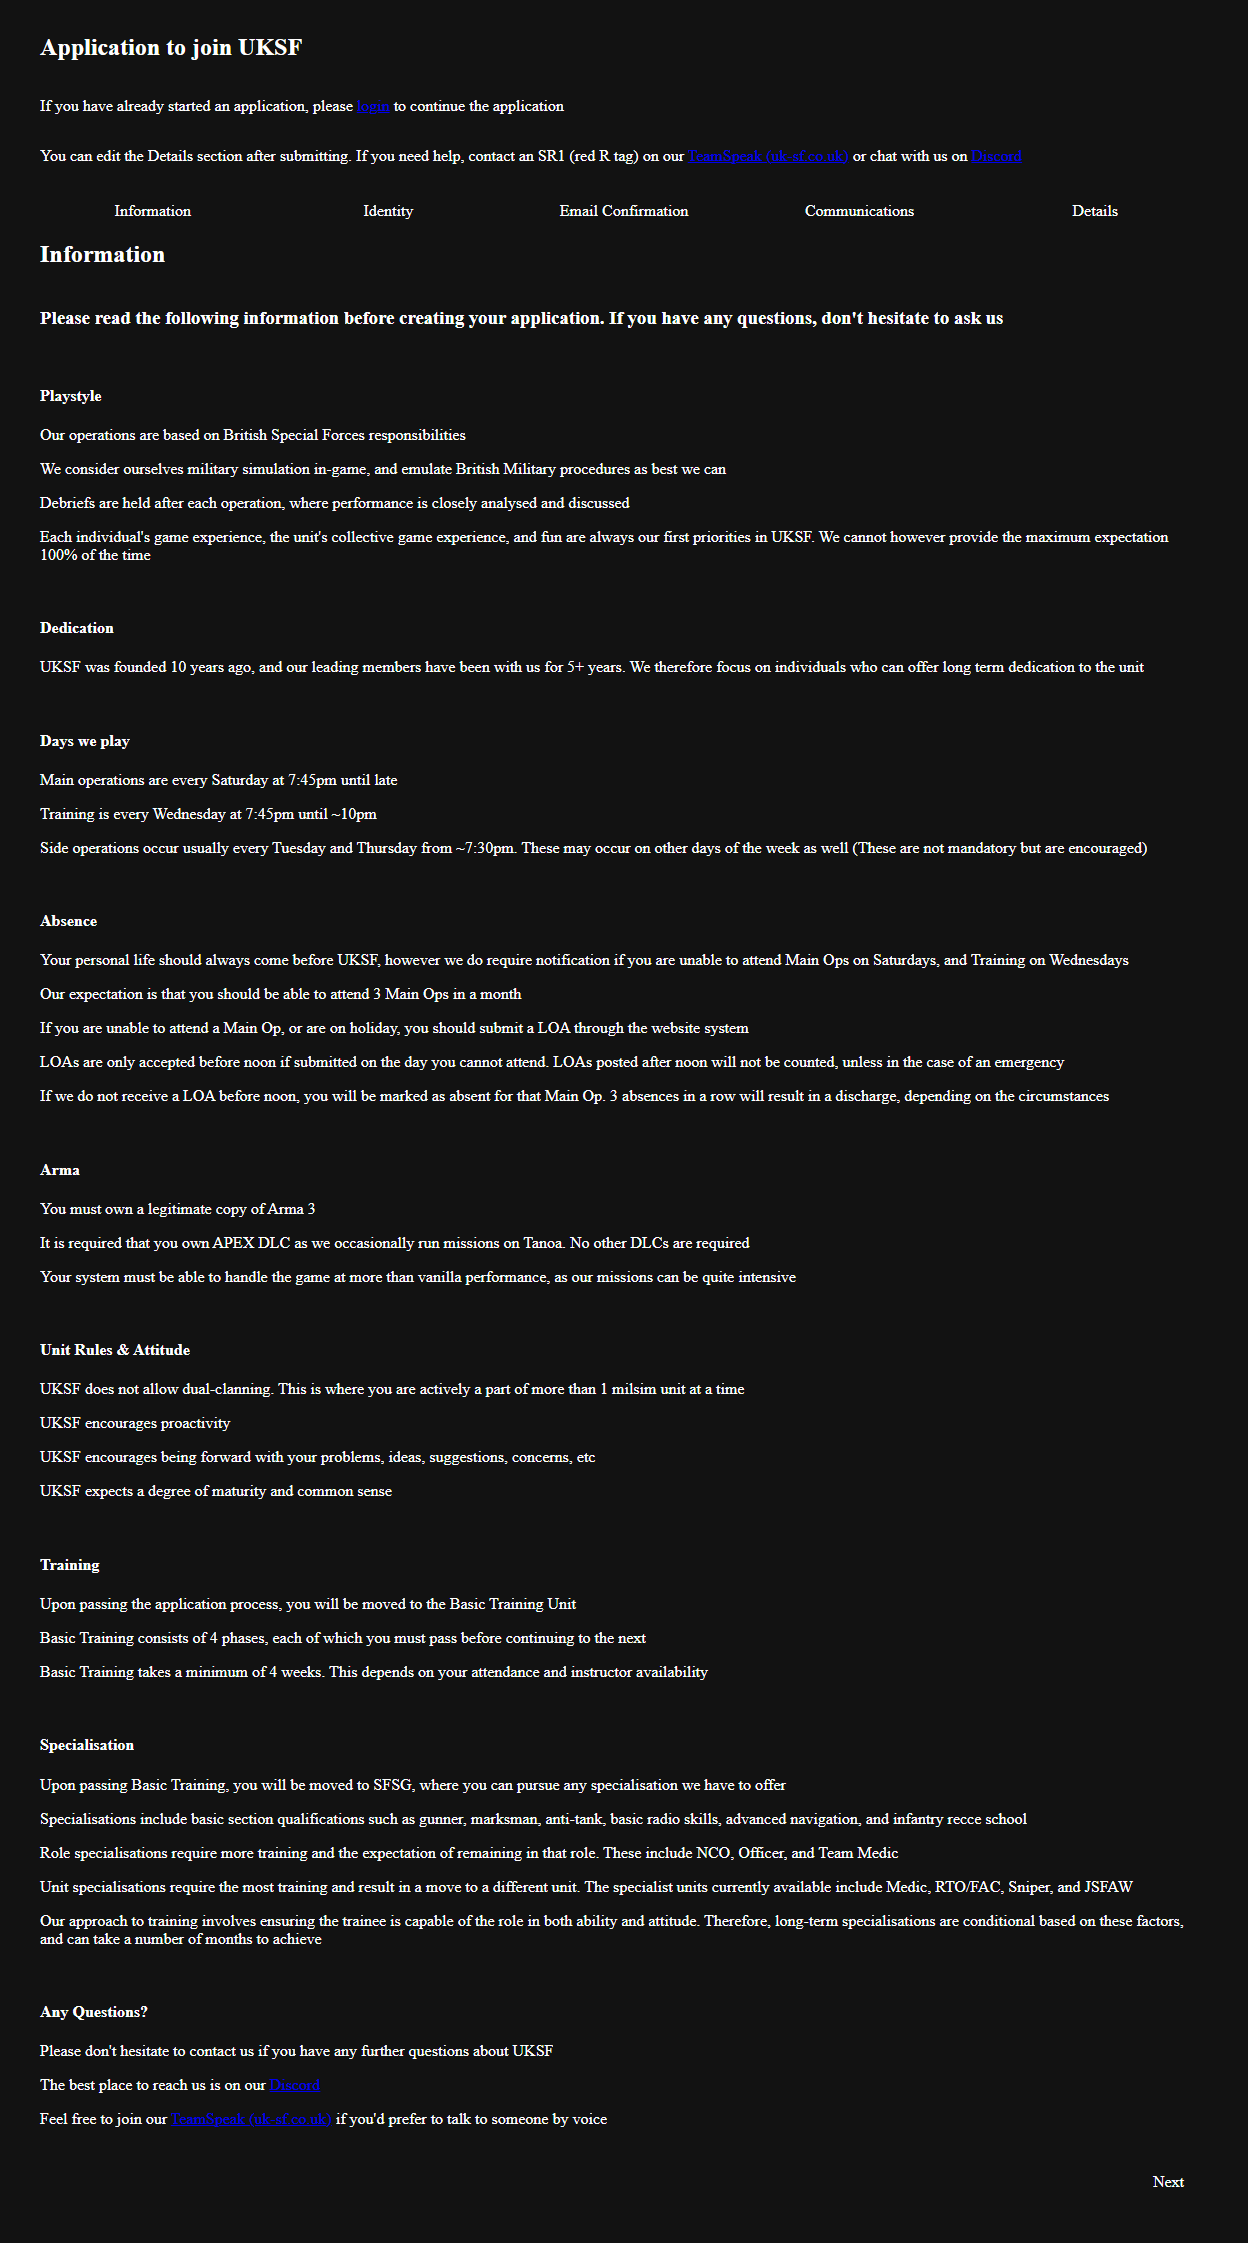
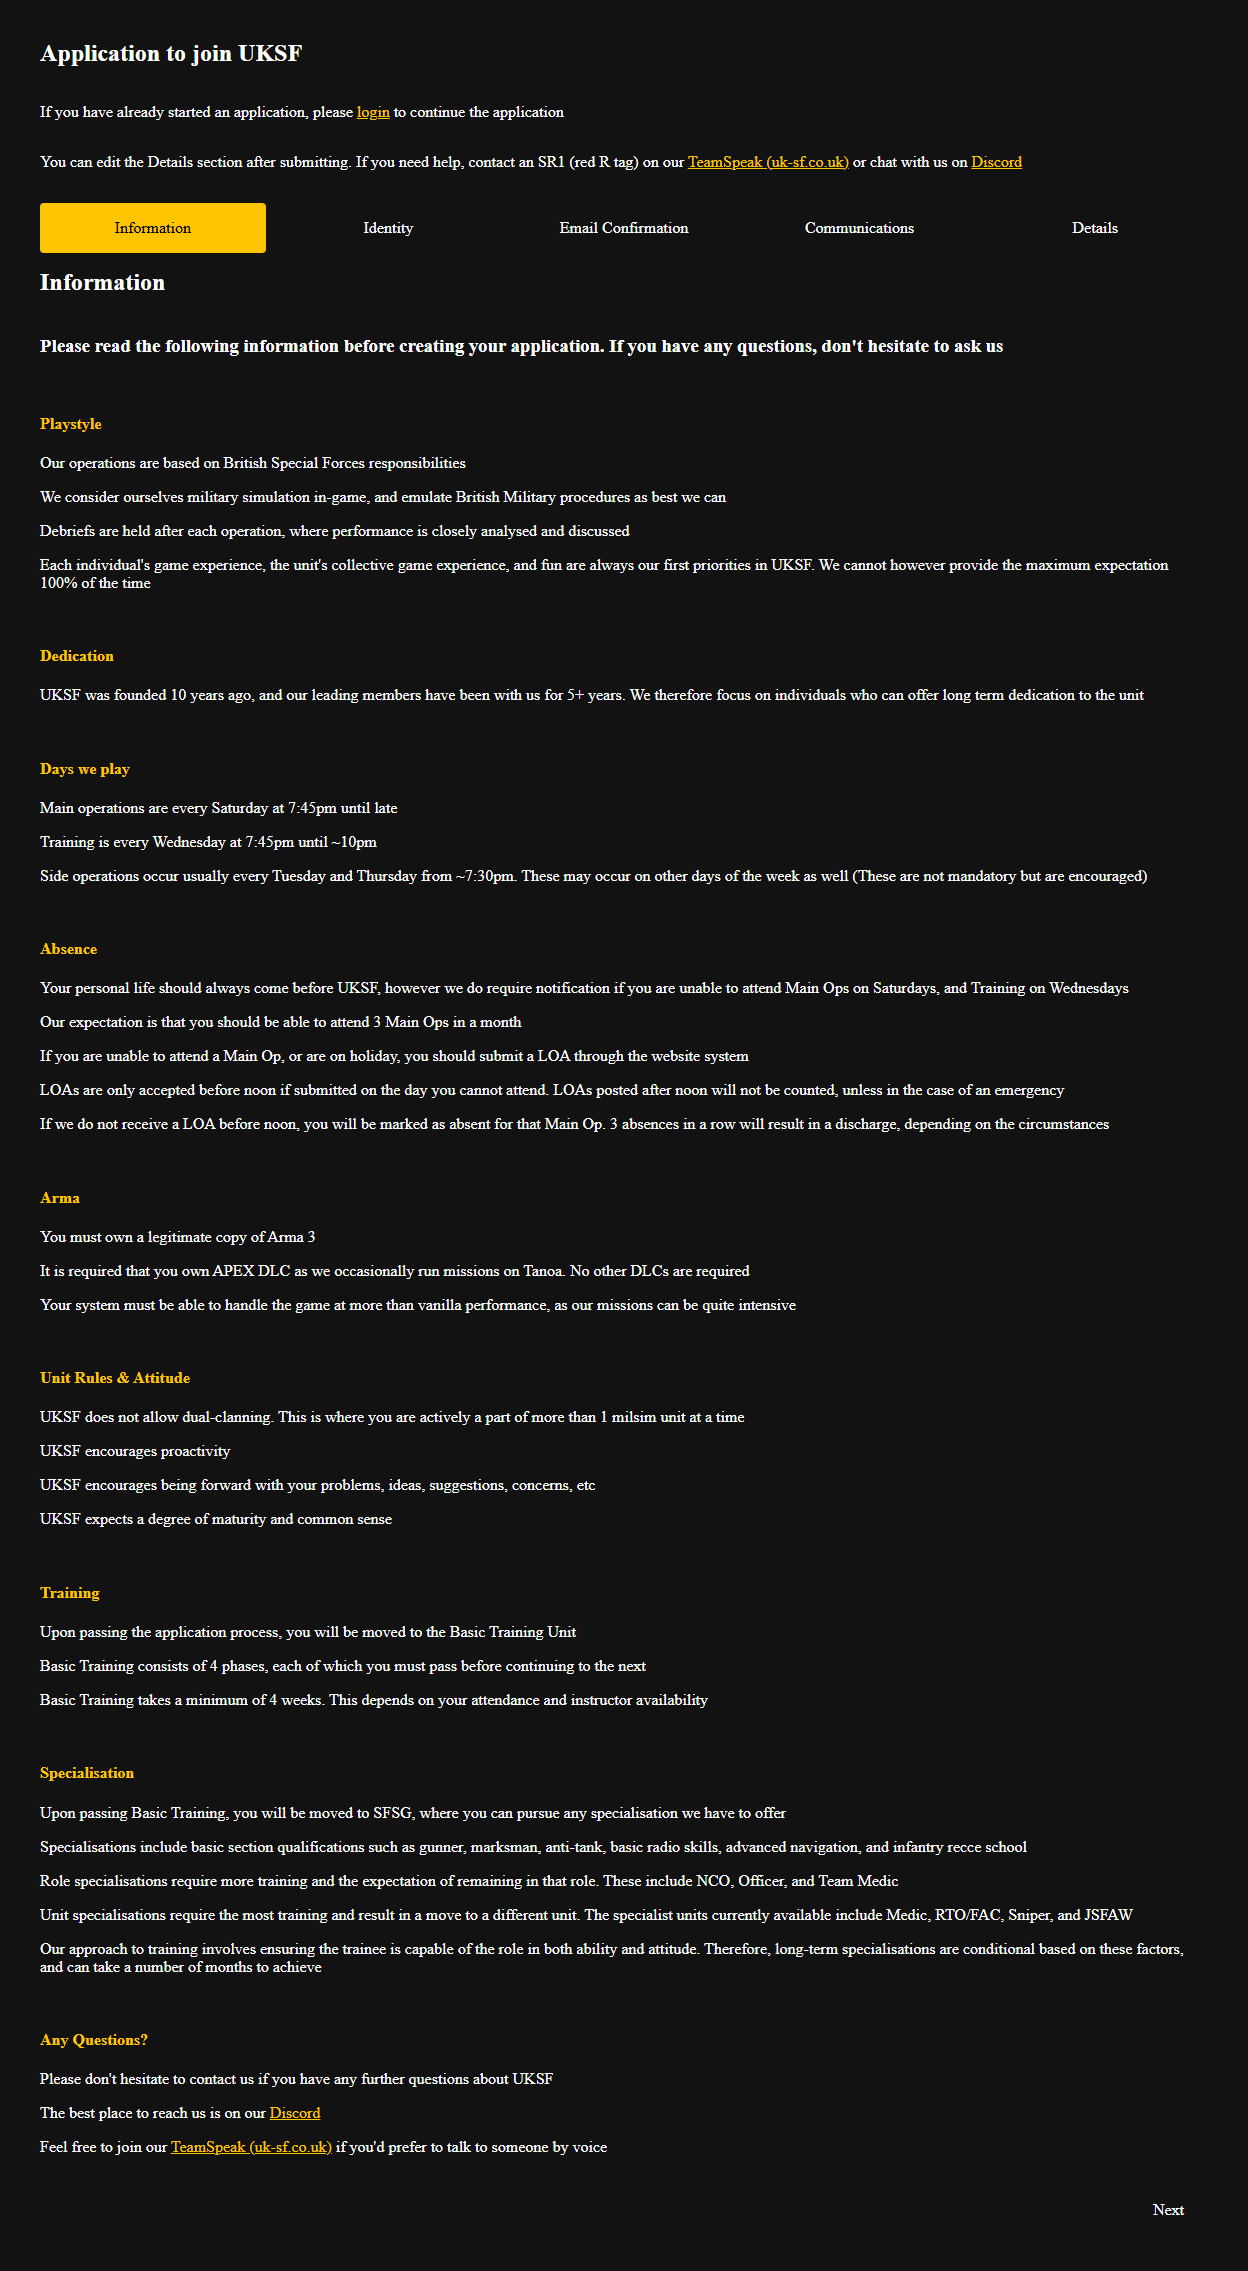
refactor(application): switch application-page to gap-based layout + full-content shell

Changed region(s): [[0.0312, 0.0, 0.9375, 0.9675], [0.625, 0.2185, 0.9375, 0.2497], [0.875, 0.0936, 0.9062, 0.1248]]

diff --git a/src/app/features/application/components/application-page/application-page.component.scss b/src/app/features/application/components/application-page/application-page.component.scss
@@ -1,13 +1,9 @@
 @use 'styles/theme-helpers' as th;
 
-app-default-content-areas {
-    margin-top: 10px;
-}
-
 .flex-container {
     display: flex;
     flex-direction: column;
-    margin-left: 0;
+    gap: 16px;
 
     &.row {
         flex-direction: row;
@@ -17,24 +13,30 @@ app-default-content-areas {
 .progress-container {
     display: flex;
     flex-direction: row;
+    gap: 10px;
     height: 50px;
-    margin: 5px 0;
     text-align: center;
     word-break: break-word;
 
     .box {
         flex: 1;
-        margin-right: 10px;
         display: flex;
         align-items: center;
         justify-content: center;
         border-radius: 4px;
         cursor: default;
         padding: 5px;
+        background-color: var(--uksf-card);
+        color: th.fg-base();
     }
 
-    .box:last-child {
-        margin-right: 0;
+    .enabled {
+        background-color: th.primary();
+        color: th.primary-contrast();
+    }
+
+    .complete {
+        background-color: var(--uksf-gray-550);
     }
 }
 
@@ -63,6 +65,14 @@ app-default-content-areas {
     text-align: right;
 }
 
+a {
+    color: th.primary();
+}
+
+h4 {
+    color: th.primary();
+}
+
 @media screen and (max-width: 800px) {
     .mat-mdc-form-field.large-input,
     .normal,
@@ -75,28 +85,4 @@ app-default-content-areas {
     .progress-container {
         font-size: 12px;
     }
-}
-
-a {
-  color: th.primary();
-}
-
-.progress-container {
-    .box {
-      background-color: var(--uksf-card);
-      color: th.fg-base();
-    }
-
-    .enabled {
-      background-color: th.primary();
-      color: th.primary-contrast();
-    }
-
-    .complete {
-      background-color: var(--uksf-gray-550);
-    }
-}
-
-h4 {
-  color: th.primary();
 }

diff --git a/src/app/features/application/components/application-page/application-page.component.html b/src/app/features/application/components/application-page/application-page.component.html
@@ -1,5 +1,5 @@
 <app-default-content-areas>
-    <app-main-content-area style="grid-column: span 3">
+    <app-full-content-area>
         <div class="flex-container">
             @if (step !== 6) {
             <mat-card>
@@ -46,5 +46,5 @@
             </div>
             }
         </div>
-    </app-main-content-area>
+    </app-full-content-area>
 </app-default-content-areas>

diff --git a/src/app/features/application/components/application-page/application-page.component.ts b/src/app/features/application/components/application-page/application-page.component.ts
@@ -8,7 +8,7 @@ import { ApplicationState } from '@app/features/application/models/application';
 import { ApplicationService } from '../../services/application.service';
 import { ApplicationAnalyticsService } from '../../services/application-analytics.service';
 import { DefaultContentAreasComponent } from '../../../../shared/components/content-areas/default-content-areas/default-content-areas.component';
-import { MainContentAreaComponent } from '../../../../shared/components/content-areas/main-content-area/main-content-area.component';
+import { FullContentAreaComponent } from '../../../../shared/components/content-areas/full-content-area/full-content-area.component';
 import { MatCard } from '@angular/material/card';
 import { RouterLink } from '@angular/router';
 import { NgClass } from '@angular/common';
@@ -25,7 +25,7 @@ import { ApplicationEditComponent } from '../application-edit/application-edit.c
     styleUrls: ['./application-page.component.scss'],
     imports: [
         DefaultContentAreasComponent,
-        MainContentAreaComponent,
+        FullContentAreaComponent,
         MatCard,
         RouterLink,
         NgClass,